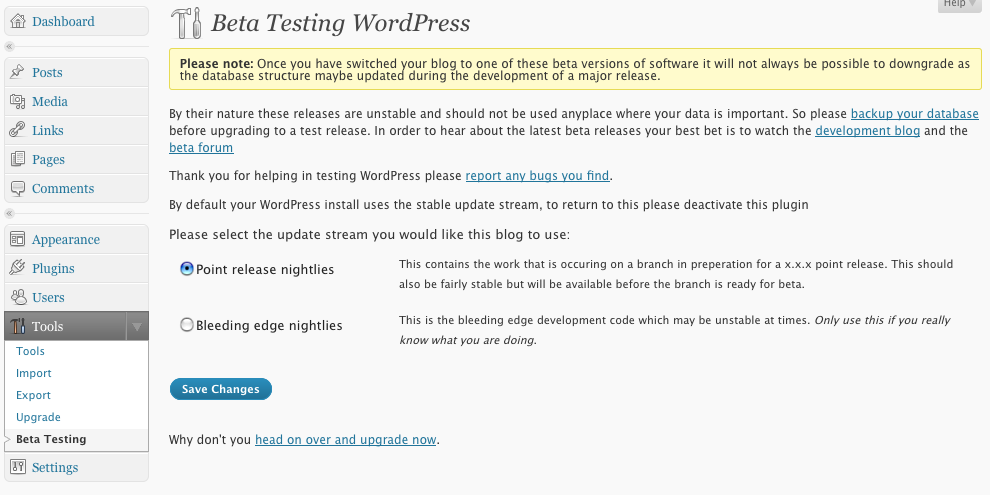
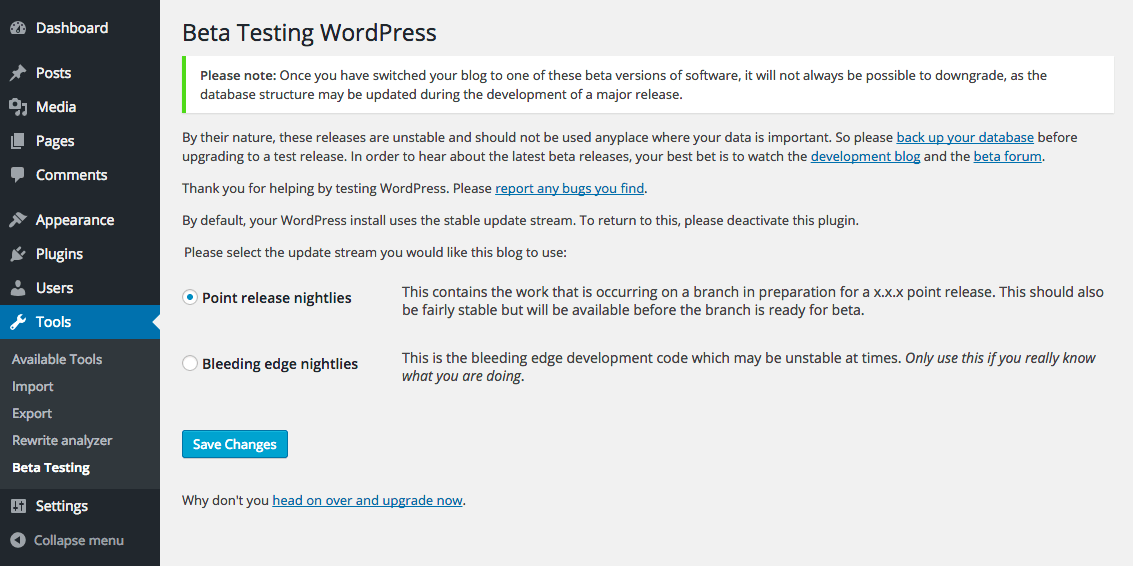
WordPress Beta Tester: Update screenshot and tested-up-to version.
Props ryan.

git-svn-id: https://plugins.svn.wordpress.org/wordpress-beta-tester/trunk@1125497 b8457f37-d9ea-0310-8a92-e5e31aec5664

diff --git a/wp-beta-tester.php b/wp-beta-tester.php
@@ -4,11 +4,11 @@
 	Plugin URI: http://wordpress.org/extend/plugins/wordpress-beta-tester/
 	Description: Allows you to easily upgrade to Beta releases.
 	Author: Peter Westwood
-	Version: 0.99
+	Version: 1.0
 	Author URI: http://blog.ftwr.co.uk/
 	License: GPL v2 or later
 */
-/*	Copyright 2009-2013 Peter Westwood (email : peter.westwood@ftwr.co.uk)
+/*	Copyright 2009-2015 Peter Westwood (email : peter.westwood@ftwr.co.uk)
 
 	This program is free software; you can redistribute it and/or modify
 	it under the terms of the GNU General Public License, version 2, as 
@@ -212,4 +212,3 @@ function wordpress_beta_tester_deactivate_or_activate() {
 }
 register_activation_hook( __FILE__, 'wordpress_beta_tester_deactivate_or_activate' );
 register_deactivation_hook( __FILE__, 'wordpress_beta_tester_deactivate_or_activate' );
-?>
